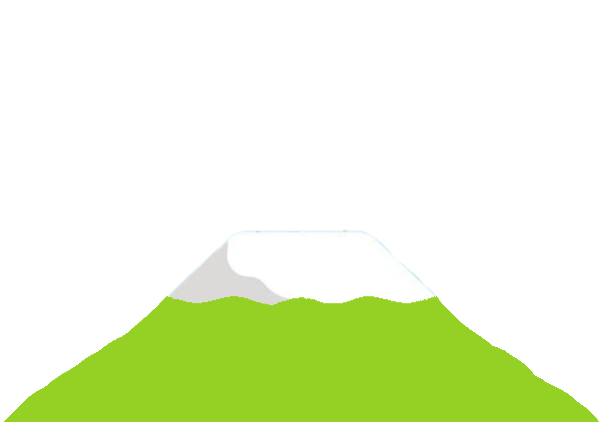
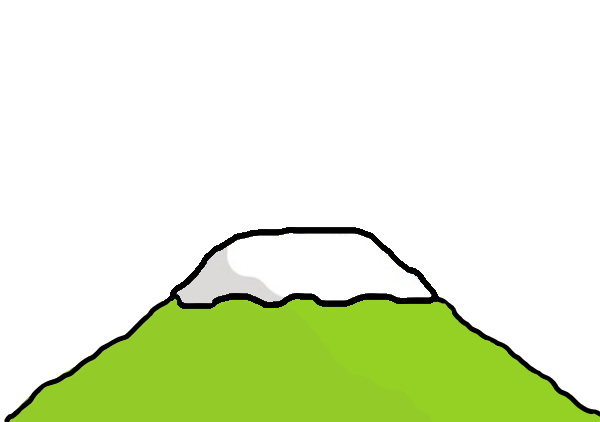
maria was here pt. 2

diff --git a/core/src/com/timetelling/gameworld/TurtleJumpRenderer.java b/core/src/com/timetelling/gameworld/TurtleJumpRenderer.java
@@ -29,6 +29,7 @@ public class TurtleJumpRenderer extends GameRenderer {
     private ImgButton infoMessage;
     private Sprite background;
     private Texture turtle;
+    private ImgButton turtleMove;
 
 
     public TurtleJumpRenderer(GameWorld world, TimeTellingGame game) {
@@ -37,11 +38,12 @@ public class TurtleJumpRenderer extends GameRenderer {
         bar = this.world.getBar();
         choices = this.world.getChoices();
         background = AssetLoader.turtleJumpBackgroundSprite;
-        turtle = AssetLoader.turtle;
+        turtle = AssetLoader.turtleShadow;
+        turtleMove = new ImgButton(17*width/40,height/10,width/6,height/5,"",AssetLoader.turtleShadow,AssetLoader.font,0,0);
         buttons = new ImgButton[choices.length];
         font = AssetLoader.font;
         infoMessage = new ImgButton(0,height/6, width/4,height/6,"Click the corresponding time", AssetLoader.clouds,AssetLoader.font,0,0);
-        message = new ImgButton(7*width/10,height/6,width/4,height/6,"",AssetLoader.clouds,AssetLoader.font,0,0);
+        message = new ImgButton(7*width/10,height/6,width/4,height/6,"", AssetLoader.clouds, AssetLoader.font,0,0);
         clock = new Clock(this.world.getCorrectTime());
         for (int i = 0; i < buttons.length; i++) {
             buttons[i] = new ImgButton((i+1)*width/(buttons.length+2), width/3, width/(buttons.length+2), width/6, "", AssetLoader.platform, AssetLoader.font, ((width/(buttons.length+2))/5)*2,width/12);
@@ -52,13 +54,13 @@ public class TurtleJumpRenderer extends GameRenderer {
     public void render() {
         super.render();
         batcher.begin();
-        batcher.draw(background,width/13,0);
+        batcher.draw(background,width/50,0);
         drawButtons();
         clock.draw(batcher, width/2, 2*height/3, width/2);
         infoMessage.draw(batcher);
         message.draw(batcher);
         bar.draw(batcher, width/5, 9*height/10, 3*width/5, height/20);
-        batcher.draw(turtle, 17*width/40,height/10,width/6,height/5);
+        turtleMove.draw(batcher);
         batcher.end();
     }
 
@@ -79,10 +81,10 @@ public class TurtleJumpRenderer extends GameRenderer {
                     if (bar.isMax()) game.setScreen(new TitleScreen(game));
                     infoMessage = new ImgButton(0,height/6, width/4,height/6,"Click the corresponding time", AssetLoader.clouds,AssetLoader.font,0,0);
                     message = new ImgButton(7*width/10,height/6,width/4,height/6,"Great job!",AssetLoader.clouds,AssetLoader.font,0,0);
-                }
+                    turtleMove = new ImgButton((i+1)*width/(buttons.length+2),7*width/15,width/6,height/5,"", AssetLoader.turtleShadow, AssetLoader.font,0,0);                }
                 else {
                     message = new ImgButton(7*width/10,height/6,width/4,height/6,"Oops, the correct time is " + this.world.getCorrectTime().toString(),AssetLoader.clouds,AssetLoader.font,0,0);
-
+                    turtleMove = new ImgButton(17*width/40,height/10,width/6,height/5,"", AssetLoader.turtleShadow, AssetLoader.font, 0,0);
                 }
                 clock.setTime(world.getCorrectTime());
                 return true;

diff --git a/core/src/com/timetelling/helper/AssetLoader.java b/core/src/com/timetelling/helper/AssetLoader.java
@@ -26,6 +26,7 @@ public class AssetLoader {
     public static Sprite turtleSprite;
     public static Texture titleClock;
     public static Texture clouds;
+    public static Texture turtleShadow;
 
     public static void load() {
         skin = new Skin(Gdx.files.internal("uiskin.json"));
@@ -39,11 +40,13 @@ public class AssetLoader {
         platform = new Texture(Gdx.files.internal("jumpPlatform.png"));
         trash = new Texture(Gdx.files.internal("trash.png"));
         turtle = new Texture(Gdx.files.internal("turtle.png"));
+        turtleShadow = new Texture(Gdx.files.internal("turtleShadow.png"));
+        turtleSprite = new Sprite(turtle, Gdx.graphics.getWidth()/6, Gdx.graphics.getHeight()/5);
         white = new Texture(Gdx.files.internal("white.png"));
         green = new Texture(Gdx.files.internal("green.png"));
         titleClock = new Texture(Gdx.files.internal("titleClock.png"));
         clouds = new Texture(Gdx.files.internal("clouds.png"));
-        turtleJumpBackground = new Texture(Gdx.files.internal("mountain3.png"));
+        turtleJumpBackground = new Texture(Gdx.files.internal("mountaintop.png"));
         turtleJumpBackgroundSprite = new Sprite(turtleJumpBackground,Gdx.graphics.getWidth(), Gdx.graphics.getHeight()/2);
     }
 
